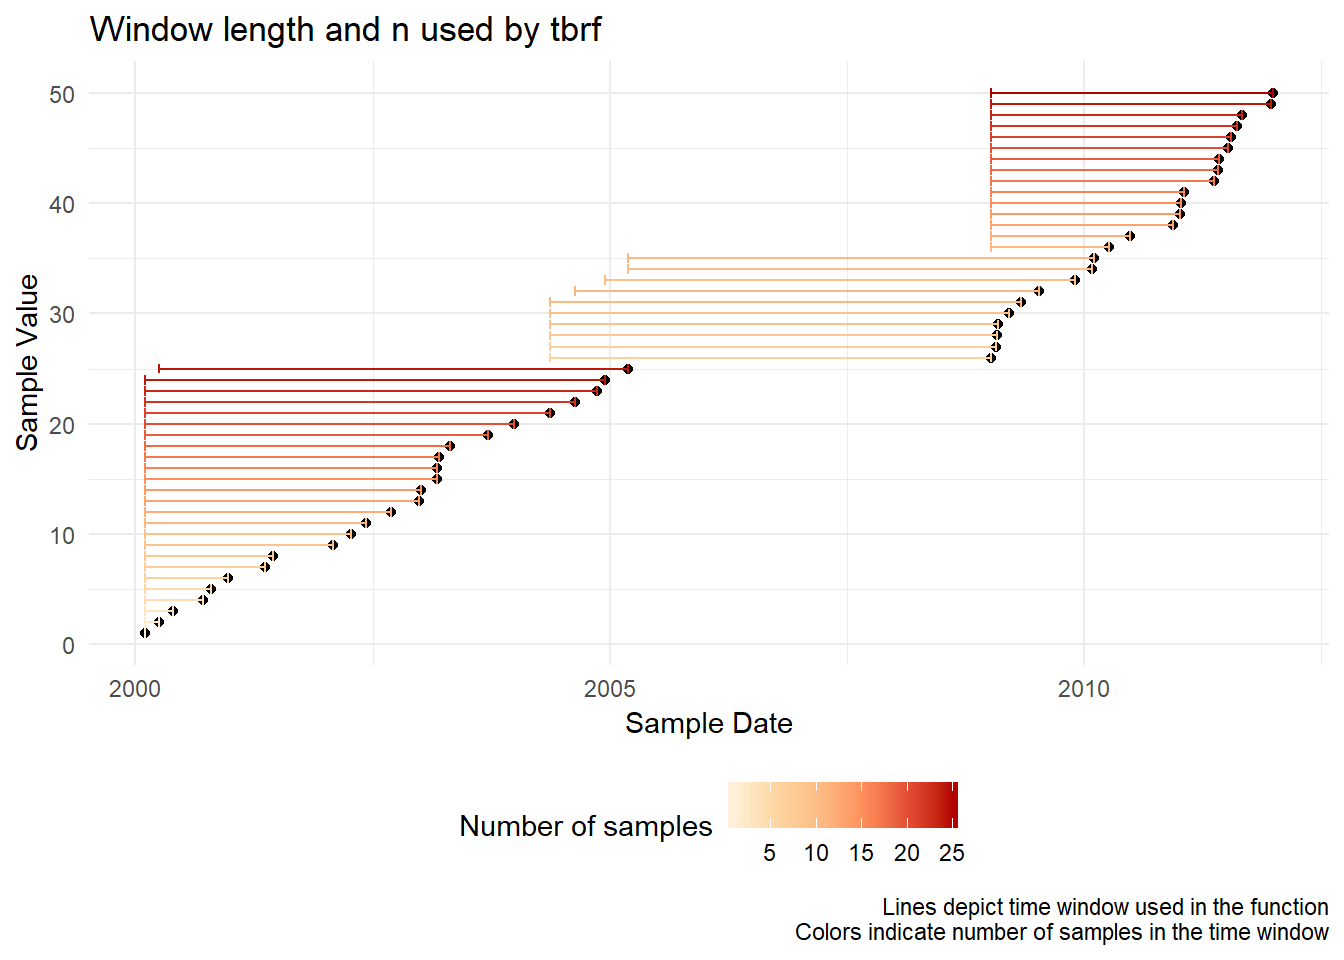
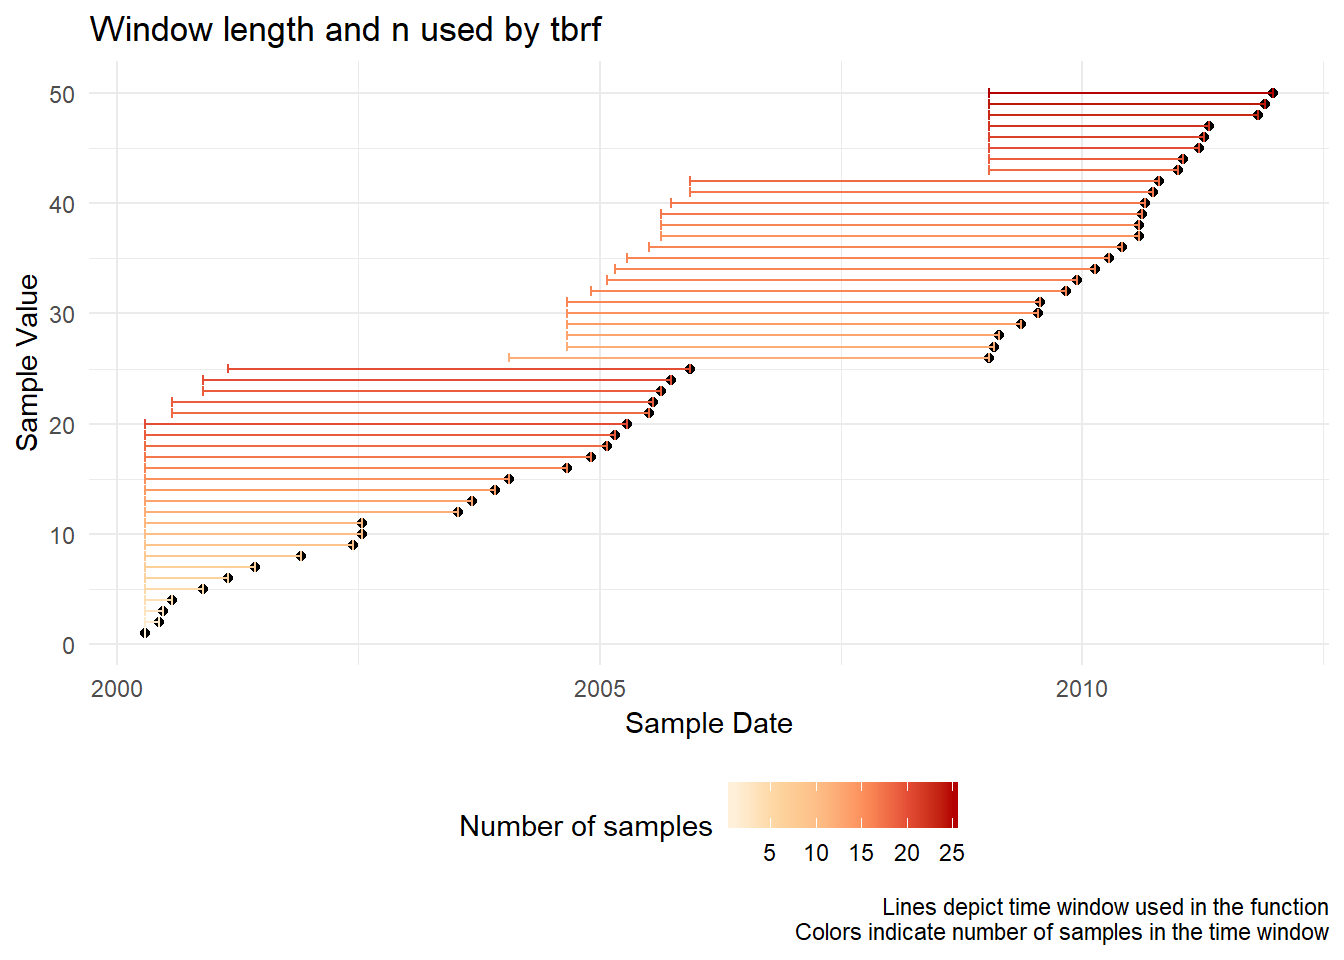
:construction_worker: Add Travis CI

diff --git a/README.md b/README.md
@@ -1,6 +1,9 @@
 
 <!-- README.md is generated from README.Rmd. Please edit that file -->
 
+[![Travis build
+status](https://travis-ci.org/mps9506/tbrf.svg?branch=master)](https://travis-ci.org/mps9506/tbrf)
+
 # tbrf
 
 The goal of tbrf is to provide time-window based rolling statistical
@@ -54,16 +57,16 @@ df
 ## # A tibble: 50 x 5
 ##    date       value results min_date   max_date  
 ##    <date>     <int>   <int> <date>     <date>    
-##  1 2000-02-07     1       1 2000-02-07 2000-02-07
-##  2 2000-04-01     2       2 2000-02-07 2000-04-01
-##  3 2000-05-26     3       3 2000-02-07 2000-05-26
-##  4 2000-09-16     4       4 2000-02-07 2000-09-16
-##  5 2000-10-20     5       5 2000-02-07 2000-10-20
-##  6 2000-12-24     6       6 2000-02-07 2000-12-24
-##  7 2001-05-16     7       7 2000-02-07 2001-05-16
-##  8 2001-06-13     8       8 2000-02-07 2001-06-13
-##  9 2002-02-01     9       9 2000-02-07 2002-02-01
-## 10 2002-04-12    10      10 2000-02-07 2002-04-12
+##  1 2000-04-15     1       1 2000-04-15 2000-04-15
+##  2 2000-06-08     2       2 2000-04-15 2000-06-08
+##  3 2000-06-21     3       3 2000-04-15 2000-06-21
+##  4 2000-07-25     4       4 2000-04-15 2000-07-25
+##  5 2000-11-20     5       5 2000-04-15 2000-11-20
+##  6 2001-02-23     6       6 2000-04-15 2001-02-23
+##  7 2001-06-06     7       7 2000-04-15 2001-06-06
+##  8 2001-11-25     8       8 2000-04-15 2001-11-25
+##  9 2002-06-13     9       9 2000-04-15 2002-06-13
+## 10 2002-07-15    10      10 2000-04-15 2002-07-15
 ## # ... with 40 more rows
 
 ggplot(df) +
@@ -82,87 +85,40 @@ ggplot(df) +
 
 <img src="man/figures/README-tbr_misc-1.png" width="672" />
 
-### Rolling Geometric Mean
-
 ``` r
-library(tbrf)
-library(dplyr)
-library(ggplot2)
+data("Dissolved_Oxygen")
 
-## Generate sample data
-set.seed(100)
-df <- data.frame(date = sample(seq(as.Date('2000-01-01'), 
-                                   as.Date('2017-12-30'), by = "day"), 68),
-                 value = rexp(68, 1/100))
+df <- Dissolved_Oxygen %>%
+  tbr_mean(x = Average_DO, tcolumn = Date, unit = "years", n = 5)
 
-
-head(df)
-##         date     value
-## 1 2005-07-16 161.34566
-## 2 2004-08-20  14.51295
-## 3 2009-12-08  43.30075
-## 4 2001-01-05  54.95578
-## 5 2008-06-05  66.80542
-## 6 2008-09-12 254.36060
-
-## apply the geomean to each row
-df <- tbr_gmean(df, x = value, tcolumn = date,
-                unit = "years", n = 5, conf.level = 0.95)
 df
-## # A tibble: 68 x 5
-##    date       value  mean lwr.ci upr.ci
-##    <date>     <dbl> <dbl>  <dbl>  <dbl>
-##  1 2001-01-05  55.0  NA     NA     NA  
-##  2 2002-03-15  58.6  56.8   55.0   58.6
-##  3 2002-05-01 198.   86.1   37.4  135. 
-##  4 2003-01-22 113.   92.0   56.8  149. 
-##  5 2003-01-27  68.0  86.6   58.9  128. 
-##  6 2003-03-25 153.   95.3   64.4  135. 
-##  7 2003-07-19 169.  103.    70.4  150. 
-##  8 2003-09-03 114.  105.    75.6  145. 
-##  9 2003-09-17  63.0  98.9   74.2  134. 
-## 10 2003-10-09  21.2  84.8   57.4  126. 
-## # ... with 58 more rows
-
-
-## tidy pipeline sample. sample data with breaks
-set.seed(100)
-
-df <- data.frame(date = sample(seq(as.Date('2000-01-01'), 
-                                   as.Date('2007-12-30'), by = "day"), 25),
-                 value = rexp(25, 1/100)) %>%
-  bind_rows(data.frame(date = sample(seq(as.Date('2009-01-01'), 
-                                         as.Date('2011-12-30'), by = "day"), 5),
-                       value = rexp(5, 1/1000)))
-
-df <- df %>%
-  tbr_gmean(x = value, tcolumn = date, unit = "years",
-            n = 5, conf.level = 0.95)
-df
-## # A tibble: 30 x 5
-##    date       value  mean lwr.ci upr.ci
-##    <date>     <dbl> <dbl>  <dbl>  <dbl>
-##  1 2000-06-13  93.5  NA     NA     NA  
-##  2 2001-05-10  20.7  44.0   20.7   93.5
-##  3 2001-08-17 223.   75.5   25.6  276. 
-##  4 2002-01-22  54.1  69.4   30.9  144. 
-##  5 2002-03-26 102.   74.9   39.8  166. 
-##  6 2002-06-17 176.   86.4   47.1  176. 
-##  7 2002-11-04 114.   89.9   55.0  164. 
-##  8 2002-11-09  35.3  80.0   47.7  135. 
-##  9 2002-12-15  55.5  76.8   48.6  122. 
-## 10 2003-03-04 198.   84.4   52.4  135. 
-## # ... with 20 more rows
+## # A tibble: 236 x 9
+##    Station_ID Date       Param_Code Param_Desc     Average_DO Min_DO  mean
+##         <int> <date>     <chr>      <chr>               <dbl>  <dbl> <dbl>
+##  1      12515 2000-01-03 00300      OXYGEN, DISSO~       6.19   6.19 NA   
+##  2      12515 2000-03-14 00300      OXYGEN, DISSO~       6.7    6.7   6.73
+##  3      12517 2000-03-14 00300      OXYGEN, DISSO~       7.3    7.3   6.73
+##  4      12515 2000-03-16 00300      OXYGEN, DISSO~       6.41   6.41  6.65
+##  5      12515 2000-05-03 00300      OXYGEN, DISSO~       4.42   4.42  6.20
+##  6      12517 2000-06-14 00300      OXYGEN, DISSO~       5.74   5.74  6.13
+##  7      12515 2000-06-15 00300      OXYGEN, DISSO~       4.86   4.86  5.95
+##  8      12515 2000-07-11 00300      OXYGEN, DISSO~       4.48   4.48  5.76
+##  9      12515 2000-09-12 00300      OXYGEN, DISSO~       5.64   5.64  5.75
+## 10      12517 2000-10-17 00300      OXYGEN, DISSO~       7.96   7.96  5.97
+## # ... with 226 more rows, and 2 more variables: lwr.ci <dbl>, upr.ci <dbl>
 
 ggplot(df) +
-  geom_point(aes(date, value)) +
-  geom_line(aes(date, mean)) +
-  geom_ribbon(aes(x = date, ymin = lwr.ci, ymax = upr.ci), alpha = 0.4) +
-  scale_y_log10()
+  geom_point(aes(Date, Average_DO)) +
+  geom_line(aes(Date, mean)) +
+  geom_ribbon(aes(Date, ymin = lwr.ci, ymax = upr.ci), alpha = 0.5) +
+  theme_minimal() +
+   labs(x = "Sample Date", y = "Concentration (mg/L)",
+       title = "5-yr rolling mean",
+       caption = "Line depicts the 5-yr mean\nShaded area indicates the 95% CI")
 ## Warning: Removed 1 rows containing missing values (geom_path).
 ```
 
-<img src="man/figures/README-example-1.png" width="672" />
+<img src="man/figures/README-unnamed-chunk-1-1.png" width="672" />
 
 ## Contributing
 
@@ -176,7 +132,7 @@ to abide by its terms.
 library(tbrf)
 
 date()
-## [1] "Tue Jul 24 08:26:12 2018"
+## [1] "Wed Jul 25 08:12:54 2018"
 
 devtools::test()
 ## v | OK F W S | Context
@@ -188,7 +144,7 @@ devtools::test()
 / |  4       | core functions return expected structures
 - |  5       | core functions return expected structures
 \ |  6       | core functions return expected structures
-v |  6       | core functions return expected structures [3.6 s]
+v |  6       | core functions return expected structures [3.7 s]
 ## 
 / |  0       | core functions return expected errors and messages
 - |  1       | core functions return expected errors and messages
@@ -199,8 +155,8 @@ v |  6       | core functions return expected structures [3.6 s]
 \ |  6       | core functions return expected errors and messages
 v |  6       | core functions return expected errors and messages
 ## 
-## == Results =========================================================================================
-## Duration: 3.6 s
+## == Results ==========================================================================================
+## Duration: 3.7 s
 ## 
 ## OK:       12
 ## Failed:   0
